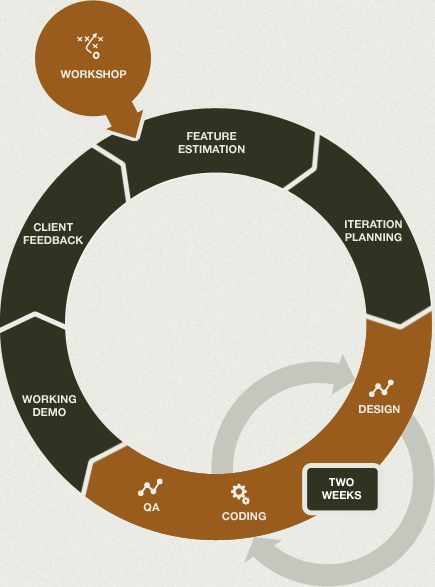
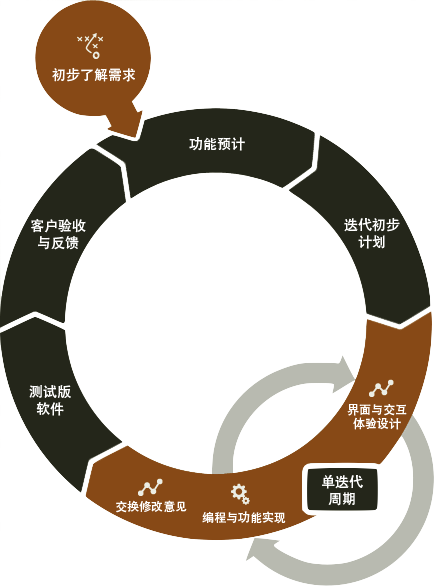
replace "about us" by a "what we do working cycle" image

diff --git a/public/css/themes/default.css b/public/css/themes/default.css
@@ -212,3 +212,6 @@ form.standard .button:hover {
 	text-indent: 2em;
 	line-height: 10px;
 }
+#wwd-cycle {
+	text-align: center;
+}
